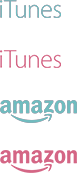
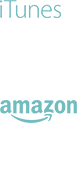
New buy now link colors

diff --git a/assets/css/app.css b/assets/css/app.css
@@ -1027,8 +1027,8 @@ font-weight: 600;
 font-size: 20px;
 }
 
-.buy-links .itunes {background: transparent url(../img/album-buy-links.png) 53px 0px; overflow:hidden; display: block; width:62px; padding:2px}
-.buy-links .itunes:hover {background: transparent url(../img/album-buy-links.png) 53px -50px;}
+.buy-links .itunes {background: transparent url(../img/album-buy-links.png) 53px 0px no-repeat; overflow:hidden; display: block; width:62px; padding:2px}
+.buy-links .itunes:hover {background: transparent url(../img/album-buy-links.png) 53px -50px no-repeat;}
 
 .buy-links .amazon {
 background: transparent url(../img/album-buy-links.png) 53px -95px no-repeat;
@@ -1038,7 +1038,7 @@ width: 132px;
 padding: 4px;
 text-align:left;
 }
-.buy-links .amazon:hover {background: transparent url(../img/album-buy-links.png) 53px -145px;}
+.buy-links .amazon:hover {background: transparent url(../img/album-buy-links.png) 53px -145px no-repeat;}
 
 .buy-links .amazon-mp3 {background: transparent url(../img/album-buy-links.png) 53px -95px no-repeat;
 overflow: hidden;
@@ -1047,7 +1047,7 @@ width: 132px;
 padding: 4px;
 text-align:left;
 }
-.buy-links .amazon-mp3:hover {background: transparent url(../img/album-buy-links.png) 53px -145px;}
+.buy-links .amazon-mp3:hover {background: transparent url(../img/album-buy-links.png) 53px -145px no-repeat;}
 
 
 /* ==========================================================================
